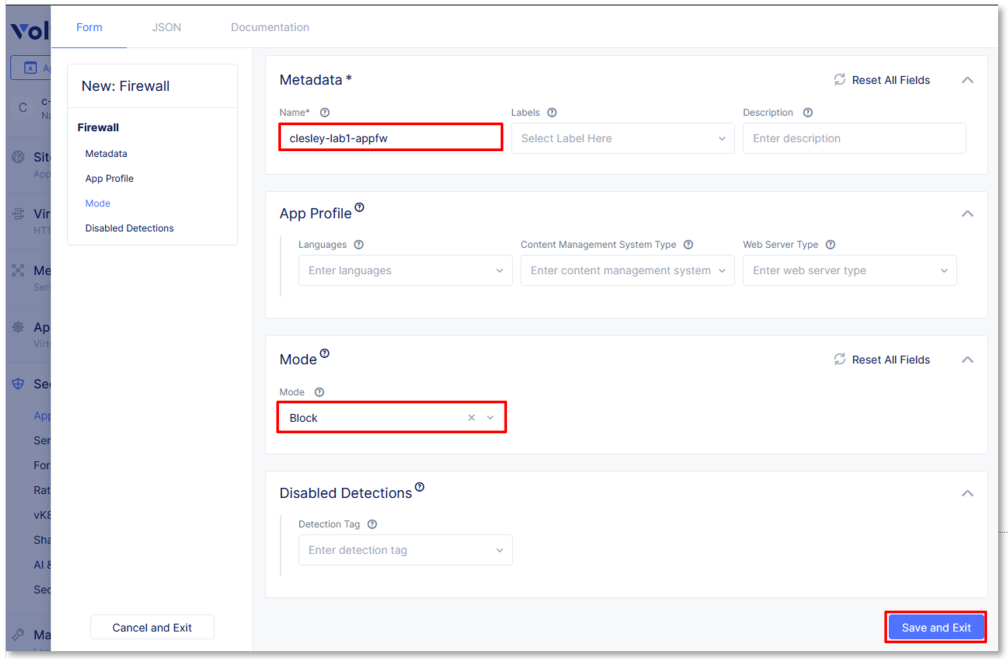
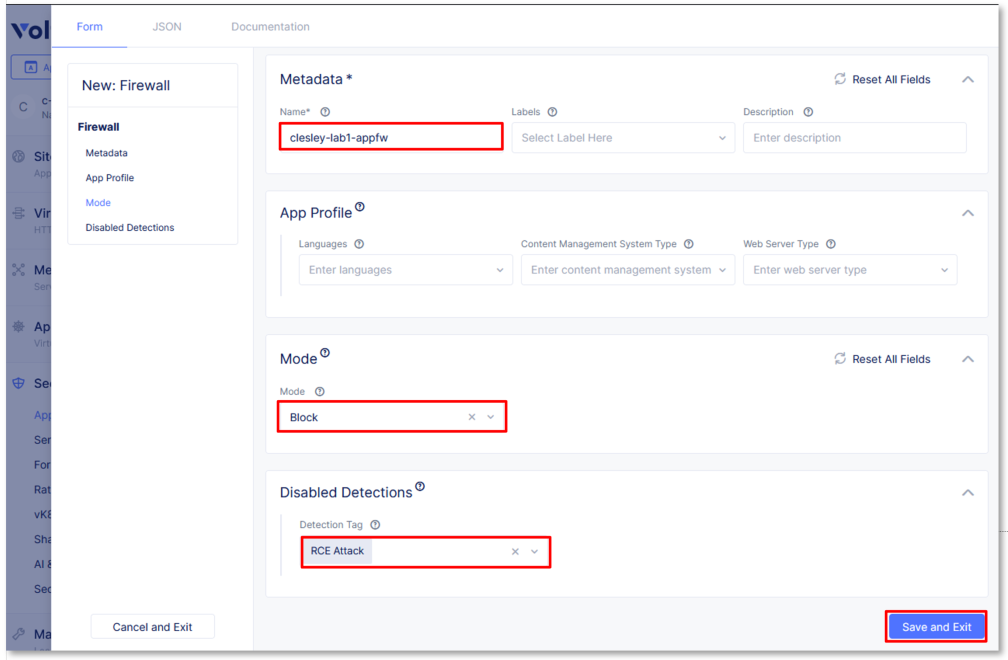
update

diff --git a/security/lab01/lab01.rst b/security/lab01/lab01.rst
@@ -197,13 +197,17 @@ TASK 2: Configuring Web Application Firewall
 |                                                                                              |
 |    **Mode**: Block (as we will be blocking traffic) Note: Alert is the other option here.    |
 |                                                                                              |
-| 7. Click the **Save and Exit** button.                                                       |
+| 7. In the **Disabled Detections* section, click in the *Detections Tag* input field and in   |
+|                                                                                              |
+|    resulting pop-up menu, select **RCE Attack**.                                             |
+|                                                                                              |
+| 8. Click the **Save and Exit** button.                                                       |
 +----------------------------------------------------------------------------------------------+
 | |image011|                                                                                   |
 +----------------------------------------------------------------------------------------------+
 
 +----------------------------------------------------------------------------------------------+
-| 8. Select the **Security** > **App Firewall** from left navigation then select **App**       |
+| 9. Select the **Security** > **App Firewall** from left navigation then select **App**       |
 |                                                                                              |
 |    **Firewall Rules** from the flyout menu.                                                  |
 +----------------------------------------------------------------------------------------------+
@@ -211,27 +215,27 @@ TASK 2: Configuring Web Application Firewall
 +----------------------------------------------------------------------------------------------+
 
 +----------------------------------------------------------------------------------------------+
-| 9. Find the genrated **App Firewall Rules** that matches the create App Firewall above.      |
+| 10. Find the genrated **App Firewall Rules** that matches the create App Firewall above.     |
 |                                                                                              |
-|    This will be in the format *generated-waf-<app firewall name>* from step 6 above.         |
+|     This will be in the format *generated-waf-<app firewall name>* from step 6 above.        |
 |                                                                                              |
-|    **Note**: that when creating the **App Firewall** first (second step in configuration     |
+|     **Note**: that when creating the **App Firewall** first (second step in configuration    |
 |                                                                                              |
-|    workflow), that a *generated* **App Firewall Rules** is automatically created.            |
+|     workflow), that a *generated* **App Firewall Rules** is automatically created.           |
 |                                                                                              |
-| 10. Click the three dots **...** on the far right of the identified row.                     |
+| 11. Click the three dots **...** on the far right of the identified row.                     |
 |                                                                                              |
-| 11. Click **Edit** in the resulting pop-up window.                                           |
+| 12. Click **Edit** in the resulting pop-up window.                                           |
 +----------------------------------------------------------------------------------------------+
 | |image013|                                                                                   |
 +----------------------------------------------------------------------------------------------+
 
 +----------------------------------------------------------------------------------------------+
-| 12. Review the generated **App Firewall Rules** and the various sections.                    |
+| 13. Review the generated **App Firewall Rules** and the various sections.                    |
 |                                                                                              |
 |     These can be adjusted to accomodate the specfifc security needs.                         |
 |                                                                                              |
-| 13. Click the horizontal navigation's **JSON** tab to view the API ready, JSON format.       |
+| 14. Click the horizontal navigation's **JSON** tab to view the API ready, JSON format.       |
 +----------------------------------------------------------------------------------------------+
 | |image014|                                                                                   |
 |                                                                                              |
@@ -240,10 +244,50 @@ TASK 2: Configuring Web Application Firewall
 | |image016|                                                                                   |
 +----------------------------------------------------------------------------------------------+
 
+TASK: 3: Attaching Web Application Firewall 
+~~~~~~~~~~~~~~~~~~~~~~~~~~~~~~~~~~~~~~~~~~~
 
-TASK: 3: Switching Namespace 
-~~~~~~~~~~~~~~~~~~~~~~~~~~~~
++----------------------------------------------------------------------------------------------+
+| **ALERT**: Placeholder - determine best/cheapest HTTP Load Balancer configuration.           |
++----------------------------------------------------------------------------------------------+
 
++----------------------------------------------------------------------------------------------+
+| 9. Click on the **Security Configuration** item in the left navigation.                      |
+|                                                                                              |
+| 10. Toggle the **Show Advanced Fields** in the upper right corner of the updated window.     |
+|                                                                                              |
+| 11. In the **Select Web Application Firewall (WAF) Config** dropdown, select **Specify WAF** |
+|                                                                                              |
+|     **Intent**.                                                                              |
+| 12. In the **Specify WAF Intent** dropdown, select the created WAF Object in Task 2, Step 6. |
++----------------------------------------------------------------------------------------------+
+| |image017|                                                                                   |
++----------------------------------------------------------------------------------------------+
+
+TASK: 4: Attacking & Adjusting WAF Configuration
+~~~~~~~~~~~~~~~~~~~~~~~~~~~~~~~~~~~~~~~~~~~~~~~~
+
++----------------------------------------------------------------------------------------------+
+| 1. Open your browser of choice, and browse to *sitename*                                     |
+|                                                                                              |
+| 2. Add the following to your query string to your URL and brwose again:                      |
+|                                                                                              |
+|    *?cmd=cat%20/etrc/passwd*                                                                 |
+|                                                                                              |
+| 3. What was the result?                                                                      |
++----------------------------------------------------------------------------------------------+
+| |image018|                                                                                   |
++----------------------------------------------------------------------------------------------+
+
++----------------------------------------------------------------------------------------------+
+| 4. Select the **Security** > **App Firewall** from left navigation then select *App**        |
+|                                                                                              |
+|    **Firewalls** from the flyout menu.                                                       |
+|                                                                                              |
+| 5. Find the created WAF Object in Task 2, Step 6 and select the three dots on the same row.  |
++----------------------------------------------------------------------------------------------+
+| |image010|                                                                                   |
++----------------------------------------------------------------------------------------------+
 
 
 TASK 14: End of Lab1
